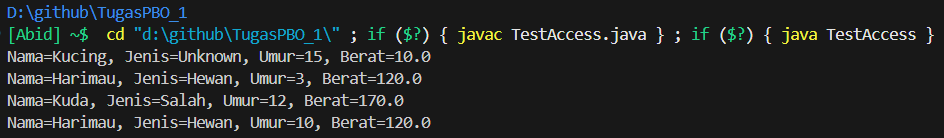
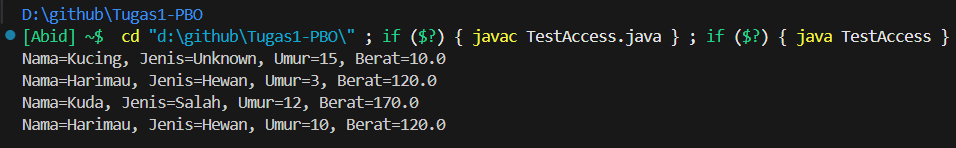
Tugas

Changed region(s): [[0.0, 0.029, 1.0, 0.3188], [0.0, 0.6377, 0.4915, 0.9275], [0.0, 0.3478, 0.4915, 0.6087]]

diff --git a/README.md b/README.md
@@ -263,4 +263,7 @@ class TestAccess {
 ```
 
 ### 📤 Output
+**Output jika umur positif**
 ![Output Program](Gambar/Output.png)
+**Output jika umur negatif**
+![Output Program](Gambar/Output2.png)
